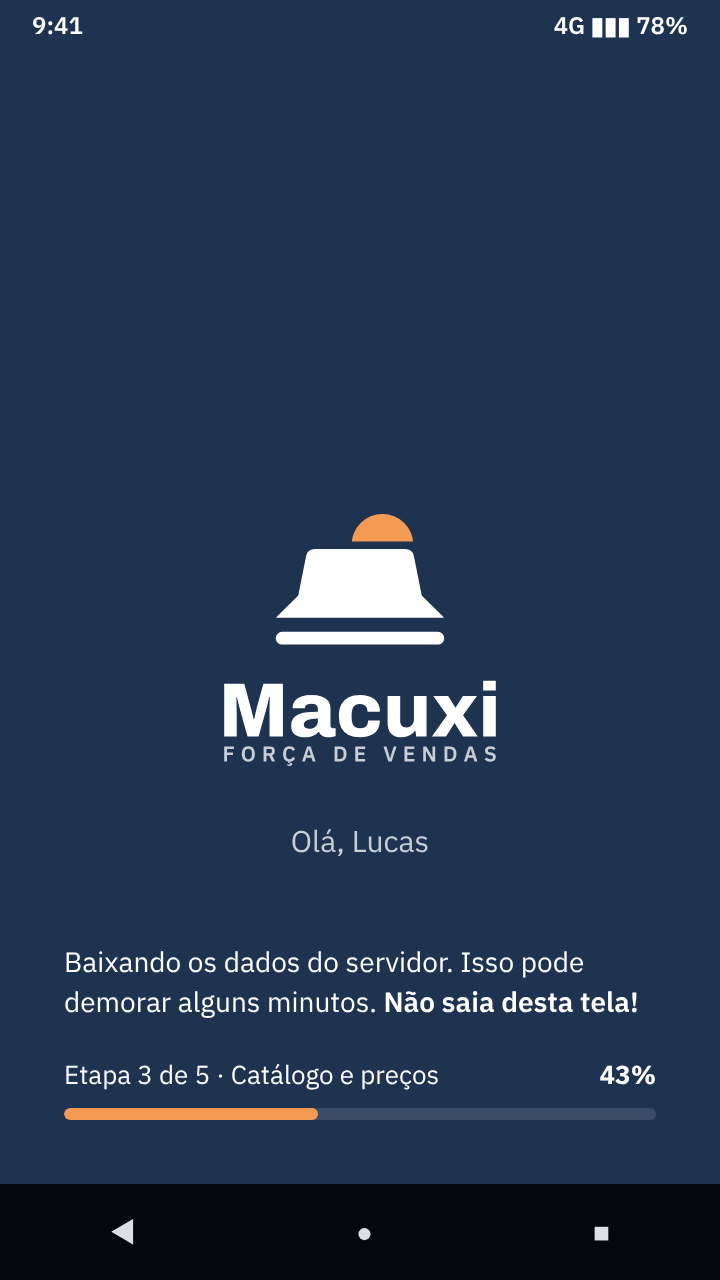
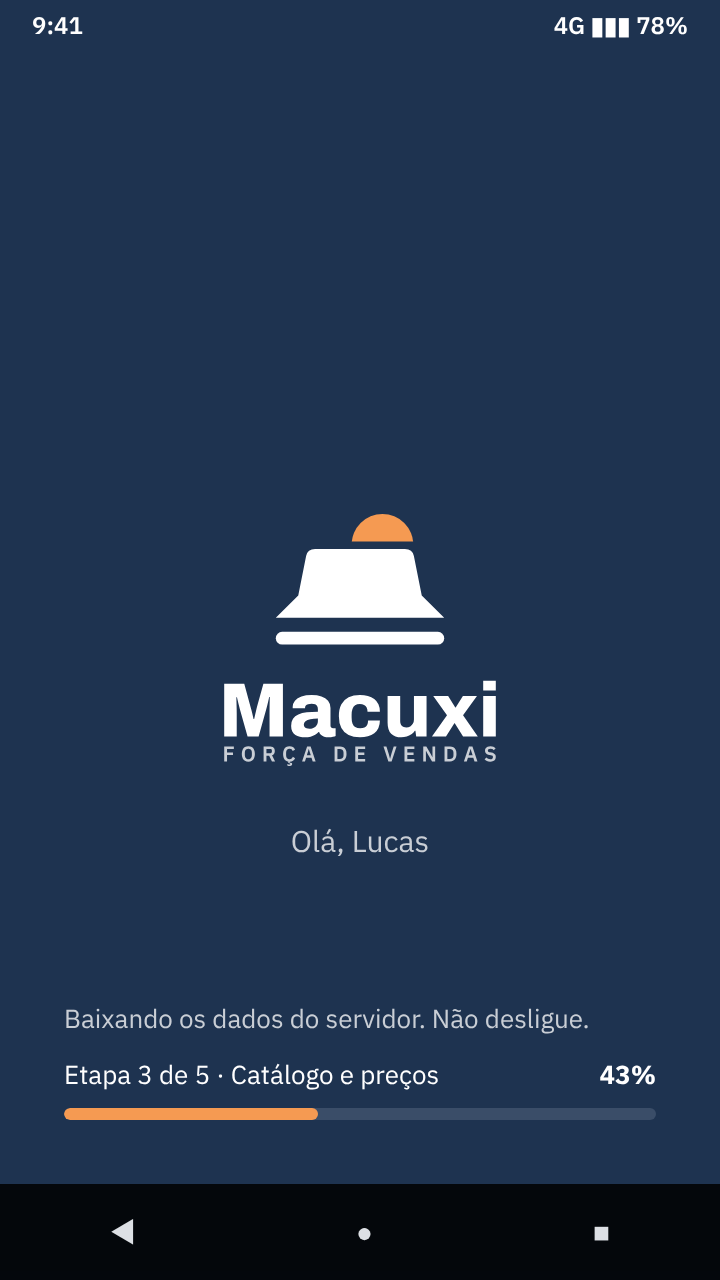
designer-ux — simulação da carga: "Você sabia?" com lâmpada e aviso curto sem destaque (R-20261115-080500-alexandre)
Lâmpada (fora do kit; desenhada em grade 24, traço 2) na cor do preenchimento e "Você sabia?"
acima da frase; aviso "Baixando os dados do servidor. Não desligue." em 13/18 textoClaro, sem
caixa, borda ou negrito. Spec §1 e §1.1 refeitas; saem os tokens da caixa do aviso (MC-0078).
PNGs da carga regerados (Campo, Gestão e 640).

Agente: designer-ux

Claude-Session: https://claude.ai/code/session_0157qAhm1f7x6WWVnUm3N773

Changed region(s): [[0.0917, 0.75, 0.8861, 0.8125]]

diff --git a/docs/design/carga-aviso-frases/app.css b/docs/design/carga-aviso-frases/app.css
@@ -7,19 +7,20 @@ body { background: #888; font-family: 'IBM Plex Sans', sans-serif; }
 .tela { position: relative; width: 360px; height: 800px; overflow: hidden; background: var(--fundo); color: var(--texto); }
 .campo { --fundo: #1E3350; --texto: #FFFFFF; --textoClaro: #C9CED5; --trilho: #3A4D68; --preenchimento: #F59A52; }
 .gestao { --fundo: #F8F6F1; --texto: #1E3350; --textoClaro: #4A5562; --trilho: #DFE2E6; --preenchimento: #C2540A; }
+/* a lâmpada usa a cor do preenchimento da barra (sol claro no Campo, sol laranja no Gestão): gráfico, nunca texto */
 .status { height: 24px; display: flex; align-items: center; justify-content: space-between; padding: 0 16px; font-size: 12px; font-weight: 600; color: var(--texto); }
 /* logo empilhado 136 dp, centro da tela (posicaoDoLogo): altura 126, topo (800 - 126) / 2 = 337 */
 .logo { position: absolute; top: 337px; left: 0; right: 0; display: flex; flex-direction: column; align-items: center; }
 .logo img { width: 136px; height: 126px; display: block; }
 .saudacao { margin-top: 28px; font-size: 15px; color: var(--textoClaro); text-align: center; }
-/* NOVO: frase sorteada, embaixo da marca e do "Olá" */
-.frase { margin-top: 12px; max-width: 280px; font-size: 14px; line-height: 20px; color: var(--textoClaro); text-align: center; }
+/* NOVO: "Você sabia?" com a lâmpada e a frase sorteada, embaixo do "Olá" */
+.sabia { margin-top: 20px; display: flex; flex-direction: column; align-items: center; gap: 6px; }
+.rot { display: flex; align-items: center; gap: 6px; font-size: 13px; line-height: 18px; font-weight: 600; color: var(--texto); }
+.rot svg { color: var(--preenchimento); flex: none; }
+.frase { max-width: 280px; font-size: 14px; line-height: 20px; color: var(--textoClaro); text-align: center; }
 .baixo { position: absolute; left: 0; right: 0; bottom: 0; padding: 0 32px 32px; display: flex; flex-direction: column; gap: 18px; }
-/* NOVO: aviso acima da barra */
-.aviso { border: 1px solid var(--trilho); border-radius: 12px; padding: 12px 14px; font-size: 14px; line-height: 20px; color: var(--texto); }
-.campo .aviso { border-color: #C9CED5; }
-.gestao .aviso { background: #FFFFFF; border-color: #C9CED5; }
-.aviso b { font-weight: 600; white-space: nowrap; }
+/* NOVO: aviso acima da barra, sem destaque (R-20261115-080500-alexandre) */
+.aviso { margin-bottom: -8px; font-size: 13px; line-height: 18px; color: var(--textoClaro); }
 .barra { display: flex; flex-direction: column; gap: 8px; }
 .linha { display: flex; justify-content: space-between; align-items: center; gap: 12px; font-size: 13px; }
 .pct { font-weight: 700; font-variant-numeric: tabular-nums; }
@@ -30,7 +31,6 @@ body { background: #888; font-family: 'IBM Plex Sans', sans-serif; }
 .baixa .logo { top: 257px; }
 .baixa .baixo { bottom: 48px; }
 .nav { position: absolute; left: 0; right: 0; bottom: 0; height: 48px; display: flex; justify-content: space-around; align-items: center; background: #000; color: #fff; font-size: 14px; opacity: .85; }
-/* Regra de respiro (spec §1.1): sem 24 dp entre a frase e o aviso, a frase cai para 1 linha e, se ainda não couber, sai.
-   Sem 16 dp entre o "Olá" e o aviso, o aviso fica sem a caixa (só o texto). Na 640 com navegação, os dois casos. */
-.baixa .frase { display: none; }
-.baixa .aviso { border: 0; padding: 0; background: none; }
+/* Regra de respiro (spec §1.1): sem 24 dp entre a frase e o aviso, a frase cai para 1 linha e, se ainda não couber, sai
+   junto com o "Você sabia?". Na 640 com navegação, o bloco sai. */
+.baixa .sabia { display: none; }

diff --git a/docs/design/carga-aviso-frases/carga-campo-640.html b/docs/design/carga-aviso-frases/carga-campo-640.html
@@ -7,12 +7,13 @@
   <div class="logo">
     <img src="../../marca/ativos/2026-11-12-v1/macuxi-logo-empilhado-negativo.svg" alt="Macuxi Força de Vendas">
     <p class="saudacao">Olá, Lucas</p>
-    <p class="frase">O Monte Roraima fica na fronteira do Brasil com a Venezuela e a Guiana.</p>
+    <div class="sabia">
+      <p class="rot"><svg width="16" height="16" viewBox="0 0 24 24" fill="none" stroke="currentColor" stroke-width="2" stroke-linecap="round" stroke-linejoin="round" aria-hidden="true"><path d="M9 18h6"/><path d="M10 21h4"/><path d="M12 3a6 6 0 0 0-3.6 10.8c.7.5 1.1 1.3 1.1 2.1V16h5v-.1c0-.8.4-1.6 1.1-2.1A6 6 0 0 0 12 3z"/></svg>Você sabia?</p>
+      <p class="frase">O Monte Roraima fica na fronteira do Brasil com a Venezuela e a Guiana.</p>
+    </div>
   </div>
   <div class="baixo">
-    <div class="aviso" role="note">
-      <p>Baixando os dados do servidor. Isso pode demorar alguns minutos. <b>Não saia desta tela!</b></p>
-    </div>
+    <p class="aviso">Baixando os dados do servidor. Não desligue.</p>
     <div class="barra">
       <div class="linha"><span>Etapa 3 de 5 · Catálogo e preços</span><span class="pct">43%</span></div>
       <div class="trilho" role="progressbar" aria-label="Sincronização" aria-valuenow="43"><i style="width:43%"></i></div>

diff --git a/docs/design/carga-aviso-frases/carga-campo.html b/docs/design/carga-aviso-frases/carga-campo.html
@@ -7,12 +7,13 @@
   <div class="logo">
     <img src="../../marca/ativos/2026-11-12-v1/macuxi-logo-empilhado-negativo.svg" alt="Macuxi Força de Vendas">
     <p class="saudacao">Olá, Lucas</p>
-    <p class="frase">O Monte Roraima fica na fronteira do Brasil com a Venezuela e a Guiana.</p>
+    <div class="sabia">
+      <p class="rot"><svg width="16" height="16" viewBox="0 0 24 24" fill="none" stroke="currentColor" stroke-width="2" stroke-linecap="round" stroke-linejoin="round" aria-hidden="true"><path d="M9 18h6"/><path d="M10 21h4"/><path d="M12 3a6 6 0 0 0-3.6 10.8c.7.5 1.1 1.3 1.1 2.1V16h5v-.1c0-.8.4-1.6 1.1-2.1A6 6 0 0 0 12 3z"/></svg>Você sabia?</p>
+      <p class="frase">O Monte Roraima fica na fronteira do Brasil com a Venezuela e a Guiana.</p>
+    </div>
   </div>
   <div class="baixo">
-    <div class="aviso" role="note">
-      <p>Baixando os dados do servidor. Isso pode demorar alguns minutos. <b>Não saia desta tela!</b></p>
-    </div>
+    <p class="aviso">Baixando os dados do servidor. Não desligue.</p>
     <div class="barra">
       <div class="linha"><span>Etapa 3 de 5 · Catálogo e preços</span><span class="pct">43%</span></div>
       <div class="trilho" role="progressbar" aria-label="Sincronização" aria-valuenow="43"><i style="width:43%"></i></div>

diff --git a/docs/design/carga-aviso-frases/carga-gestao.html b/docs/design/carga-aviso-frases/carga-gestao.html
@@ -7,12 +7,13 @@
   <div class="logo">
     <img src="../../marca/ativos/2026-11-12-v1/macuxi-logo-empilhado-positivo.svg" alt="Macuxi Força de Vendas">
     <p class="saudacao">Olá, Marta</p>
-    <p class="frase">O lavrado, a savana de Roraima, cobre cerca de 17% do estado.</p>
+    <div class="sabia">
+      <p class="rot"><svg width="16" height="16" viewBox="0 0 24 24" fill="none" stroke="currentColor" stroke-width="2" stroke-linecap="round" stroke-linejoin="round" aria-hidden="true"><path d="M9 18h6"/><path d="M10 21h4"/><path d="M12 3a6 6 0 0 0-3.6 10.8c.7.5 1.1 1.3 1.1 2.1V16h5v-.1c0-.8.4-1.6 1.1-2.1A6 6 0 0 0 12 3z"/></svg>Você sabia?</p>
+      <p class="frase">O lavrado, a savana de Roraima, cobre cerca de 17% do estado.</p>
+    </div>
   </div>
   <div class="baixo">
-    <div class="aviso" role="note">
-      <p>Baixando os dados do servidor. Isso pode demorar alguns minutos. <b>Não saia desta tela!</b></p>
-    </div>
+    <p class="aviso">Baixando os dados do servidor. Não desligue.</p>
     <div class="barra">
       <div class="linha"><span>Etapa 3 de 5 · Aprovações</span><span class="pct">43%</span></div>
       <div class="trilho" role="progressbar" aria-label="Sincronização" aria-valuenow="43"><i style="width:43%"></i></div>

diff --git a/docs/design/carga-aviso-frases/spec.md b/docs/design/carga-aviso-frases/spec.md
@@ -1,40 +1,52 @@
-# Tela de carga: aviso acima da barra e frase sorteada; cadastro das frases no portal `config.`
+# Tela de carga: aviso acima da barra e "Você sabia?" com frase sorteada; cadastro das frases no portal `config.`
 
 > 2026-11-15 · designer-ux · **simulação, sem implementação** até a aprovação do dono do produto (R-20261115-070000-alexandre).
-> Pareceres aplicados: corretor RD-0468 a RD-0476; marca MC-0077, MC-0079 e MC-0080 (a MC-0078, tokens do aviso, fica para a
-> implementação). Base: `docs/design/entrada-sync.md` (T-0172), que continua a fonte da verdade da tela de carga; esta spec
+> Pareceres aplicados: corretor RD-0468 a RD-0476; marca MC-0077, MC-0079 e MC-0080 (a MC-0078, tokens da caixa do aviso, deixou de
+> existir: o aviso ficou sem caixa em R-20261115-080500-alexandre). Base: `docs/design/entrada-sync.md` (T-0172), que continua a fonte da verdade da tela de carga; esta spec
 > descreve só o que entra. Na aprovação, a §2 da `entrada-sync.md` recebe a mudança do "Fora da tela" (§5 abaixo).
 > Simulação: `carga-campo.png`, `carga-gestao.png` (360 × 800), `carga-campo-640.png` (360 × 640 com 48 dp de navegação),
 > `config-frases.png`, `config-editar.png`. Frases: `frases.md` (tema de Roraima, com as fontes na §6). Fontes: os `.html` e o `app.css` desta pasta.
 
 ## 1. Tela de carga (Campo e Gestão, rota `/sync`, estados 4 e 5 da entrada-sync)
-De cima para baixo:
+Ajuste do dono do produto em R-20261115-080500-alexandre (referência `recados/anexos/R-20261115-080500-carga-ajuste.png` no
+repositório de recados). De cima para baixo:
 1. **Logo** empilhado, parado no centro (sem mudança).
 2. **"Olá, {primeiro nome}"** (sem mudança).
-3. **Frase sorteada (nova):** 12 dp abaixo do "Olá"; IBM Plex Sans 14/20, `textoClaro` (Campo `#C9CED5` 8,07:1; Gestão `#4A5562`
-   7,03:1), centralizada, largura máxima 280 dp, até 2 linhas. Sem aspas, sem rótulo, sem ícone.
-4. **Aviso (novo)**, na área de baixo, 18 dp acima da linha da barra, texto do dono do produto:
-   "Baixando os dados do servidor. Isso pode demorar alguns minutos. **Não saia desta tela!**"
-   - Plex Sans 14/20 em `texto`; a última frase em SemiBold e sem quebra no meio. Sem ícone.
-   - Caixa com raio 12, borda 1 dp `#C9CED5`, 12 × 14 dp de respiro. Campo: sem fundo. Gestão: fundo branco.
+3. **"Você sabia?" (novo):** 20 dp abaixo do "Olá", centralizado: ícone de lâmpada de 16 dp e, 6 dp depois, "Você sabia?" em
+   IBM Plex Sans SemiBold 13/18, cor `texto` (Campo branco 12,77:1; Gestão Azul noite 11,82:1). A lâmpada usa a cor
+   `preenchimento` da barra (Campo sol claro `#F59A52`, 5,85:1; Gestão sol laranja `#C2540A`, 4,26:1): é gráfico, não texto, e
+   fica dentro da regra do manual §3. A referência do dono do produto pinta também o texto de laranja; isso pede exceção da marca
+   (sol como texto) e fica para o design-de-marca decidir.
+   - **Lâmpada:** não existe no kit (`packages/ui/src/mobile/icon.tsx`). Desenhada no traço da família (grade 24, traço 2, pontas
+     redondas, sem preenchimento): `M9 18h6` · `M10 21h4` · `M12 3a6 6 0 0 0-3.6 10.8c.7.5 1.1 1.3 1.1 2.1V16h5v-.1c0-.8.4-1.6
+     1.1-2.1A6 6 0 0 0 12 3z`. Entra no kit como `lampada` na implementação (designer-ux), com o teste do `icon.test.ts`.
+   - Decorativa para o leitor de tela; o rótulo e a frase são lidos juntos: "Você sabia? {frase}".
+4. **Frase sorteada:** 6 dp abaixo do "Você sabia?"; IBM Plex Sans 14/20, `textoClaro` (Campo `#C9CED5` 8,07:1; Gestão `#4A5562`
+   7,03:1), centralizada, largura máxima 280 dp, até 2 linhas. Sem aspas e sem itálico.
+5. **Aviso**, na área de baixo, 10 dp acima da linha da barra: "Baixando os dados do servidor. Não desligue."
+   - Sem destaque: IBM Plex Sans Regular 13/18, `textoClaro`, alinhado à esquerda como a linha da barra. Sem caixa, sem borda,
+     sem negrito, sem ícone. Uma linha.
    - Só durante a carga (estados 4 e 5). No erro (estado 6) sai: no lugar entram a linha do erro e as ações.
    - Leitor de tela: lido uma vez, na ordem da tela, antes da barra; não é região viva.
-5. **Linha da barra e barra** (sem mudança).
+6. **Linha da barra e barra** (sem mudança).
 
 ### 1.1 Respiro (MC-0077)
-- **Prioridade:** logo, "Olá", aviso e barra. Depois a frase; por último a lista de etapas. O logo nunca se move, e nada entra na
-  área de proteção dele (a altura do "M" em volta).
-- **Frase:** precisa de 24 dp livres entre o pé dela e o topo do aviso. Sem isso, cai para 1 linha (só se a frase couber inteira
-  em 1 linha); se ainda não couber, não aparece naquela carga. Sem reticências.
-- **Aviso:** precisa de 16 dp livres abaixo do "Olá". Sem isso, perde a caixa (sem borda, sem fundo e sem respiro interno) e fica
-  só o texto, com a mesma tipografia.
-- **Lista de etapas:** sai antes da frase (`cabeLista` passa a contar o aviso e a frase). Uma função `cabeFrase(janela, inset)` ao
-  lado do `cabeLista` decide 2 linhas, 1 linha ou nada.
-- **Conferência na simulação:** 360 × 800 sem navegação: 71 dp entre a frase e o aviso, tudo aparece. 360 × 800 com 48 dp de
-  navegação: 23 dp, a frase cai para 1 linha. 360 × 640 com 48 dp de navegação (`carga-campo-640.png`): a frase sai e o aviso
-  fica sem a caixa, a 41 dp do "Olá".
+- **Prioridade:** logo, "Olá", aviso e barra. Depois o bloco "Você sabia?" com a frase; por último a lista de etapas. O logo nunca
+  se move, e nada entra na área de proteção dele (a altura do "M" em volta).
+- **Bloco "Você sabia?":** precisa de 24 dp livres entre o pé da frase e o topo do aviso. Sem isso, a frase cai para 1 linha (só
+  se couber inteira em 1 linha); se ainda não couber, o bloco inteiro (lâmpada, rótulo e frase) não aparece naquela carga. O
+  rótulo nunca aparece sozinho. Sem reticências.
+- **Aviso:** sempre em 1 linha e sem caixa; não muda com a altura da tela.
+- **Lista de etapas:** sai antes do bloco (`cabeLista` passa a contar o aviso e o bloco). Uma função `cabeFrase(janela, inset)`
+  ao lado do `cabeLista` decide 2 linhas, 1 linha ou nada.
+- **Conferência na simulação:** o bloco ocupa 84 dp com a frase em 2 linhas (20 + 18 + 6 + 40) e 64 dp com 1 linha.
+  - 360 × 800 sem navegação: 115 dp entre a frase e o aviso, tudo aparece (`carga-campo.png`, `carga-gestao.png`).
+  - 360 × 800 com 48 dp de navegação: 67 dp, tudo aparece.
+  - 360 × 640 com 48 dp de navegação (`carga-campo-640.png`): 71 dp livres entre o "Olá" e o aviso, menos que os 88 dp do bloco
+    com 1 linha e o respiro; o bloco sai e ficam o logo, o "Olá", o aviso e a barra.
 
-Sem cor nova e sem movimento novo (a área de baixo já esmaece em 240 ms; com "reduzir movimento", nada anima).
+Sem cor nova (a lâmpada usa o `preenchimento` que já existe) e sem movimento novo (a área de baixo já esmaece em 240 ms; com
+"reduzir movimento", nada anima).
 
 ## 2. Sorteio (offline)
 - Uma frase por carga, sorteada quando a tela monta, entre as **ativas**. Não troca durante a carga.
@@ -64,7 +76,7 @@ Sem cor nova e sem movimento novo (a área de baixo já esmaece em 240 ms; com "
 - `docs/design/entrada-sync.md` §2 (RD-0476): sai "dica" do "Fora da tela" e a lista da tela ganha "frase sorteada, uma por
   carga, parada" e o aviso, com remissão a esta spec.
 - Implementação, sem segurar a v1.0.10: banco e API (modulo-core / banco-dados), portal e tela do app, `cabeLista` e
-  `cabeFrase` (engenheiro-apps), tokens `avisoBorda` e `avisoFundo` no `TemaEntrada` (designer-ux, MC-0078), parecer da marca e
+  `cabeFrase` (engenheiro-apps), ícone `lampada` no kit (designer-ux), parecer da marca e
   do corretor no print do aparelho.
 
 ## 6. Fontes
